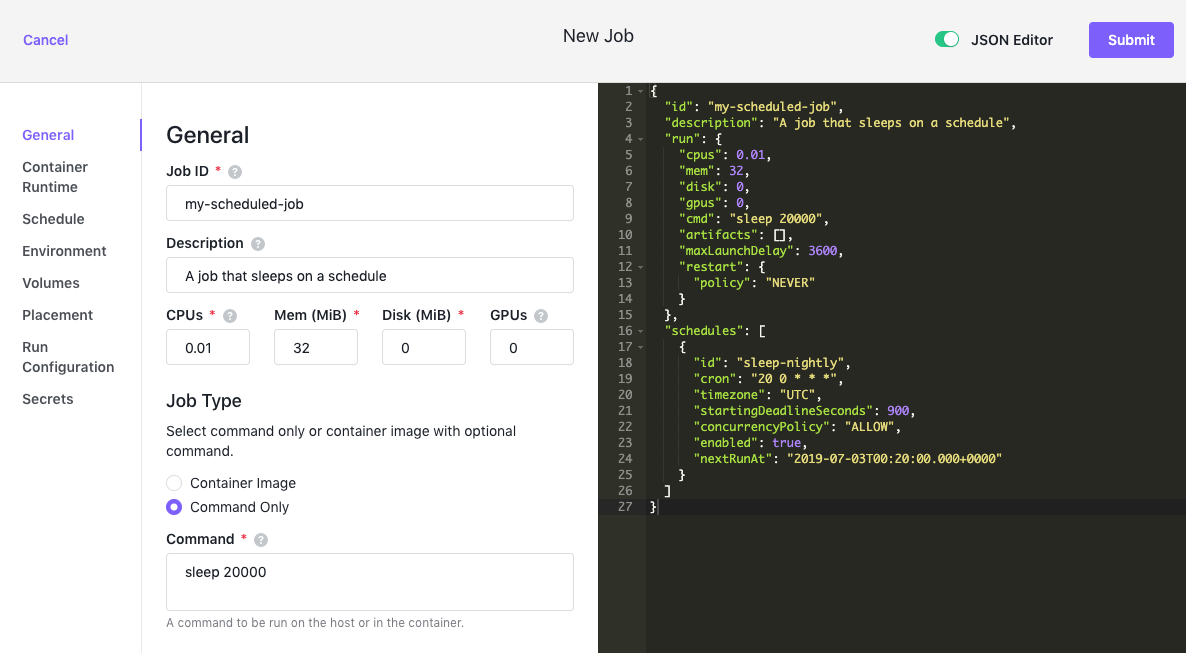
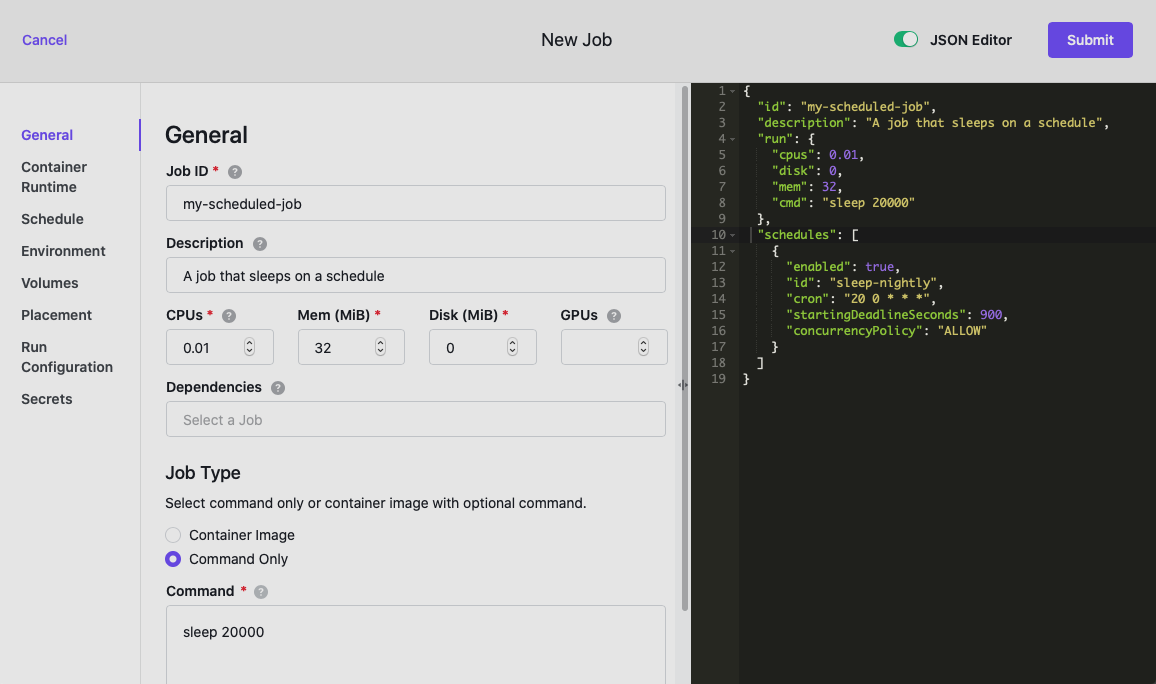
Documentation or jobs-with-dependencies

diff --git a/pages/mesosphere/dcos/2.2/gui/jobs/index.md b/pages/mesosphere/dcos/2.2/gui/jobs/index.md
@@ -95,6 +95,7 @@ Figure 6 - General configuration tab
 | Mem (MiB) | Required field. Specifies the amount of memory, in MiB, your job requires. |
 | Disk (MiB) | Required field. Specifies the amount of disk space, in MiB, your job requires. |
 | GPUs | Specifies the number of GPU (Graphics Processing Unit) shares this job needs per instance. This field is only applicable for jobs that run on nodes configured to use GPU (Graphics Processing Unit) cores and tasks that are launched using DC/OS [Universal Container Runtime](/mesosphere/dcos/2.2/deploying-services/containerizers/ucr/) containers. Support for GPU resources is not available for Docker containers or images.|
+| Dependencies | Specify or more dependencies for a job, indicating that the job should run each time all of the dependencies complete. A schedule may not be specified for jobs with dependencies. |
 | Job Type | Select **Container Image** with an optional **Command** or **Command Only**.|
 | Container Image | Repository name. This field allows you to specify an image you want to run, such as Ubuntu:14.04.|
 | Command* | Specifies a command to be run on the host or in the container. This value is wrapped by Mesos via `/bin/sh - job.cmd`. Either `cmd` or `args` must be supplied . It is invalid to supply both `cmd` and `args` in the same job.|
@@ -153,7 +154,6 @@ Figure 9 - **Jobs > Schedule** tab
 | **CRON Schedule** | Specifies the schedule in `cron` format. This is a required field. Use [this crontab generator](http://crontab.guru) for help. You can also set a **Time Zone** to apply to the cron schedule. For example, you might have nodes in different time zones and want to run the job using a standardized UTC time or a specific local time zone such as America/New_York.|
 | **Starting Deadline** | Sets the time, in seconds, to start the job if it misses its scheduled time for any reason. Missed job executions are counted as failed jobs.|
 | **Concurrency Policy** | A concurrency policy determines whether a new job run instance is triggered if there's already a job instance running. Set if you want to allow new job instances to run if there's already a job instance running. |
-
 
 ## Environment
 

diff --git a/pages/mesosphere/dcos/2.2/deploying-jobs/quickstart/index.md b/pages/mesosphere/dcos/2.2/deploying-jobs/quickstart/index.md
@@ -72,6 +72,7 @@ You will see eight tabs on the left hand side of the screen. These help you name
 | [General](#general) | Sets the most basic job settings, such as the job identifier, CPU, memory and disk requirements.|
 | [Container Runtime](#container-runtime) | Specifies whether the job runs using the Universal Container Runtime or the Docker Engine. |
 | [Schedule](#schedule) | Sets up a schedule for your job. You can use the `cron` format. |
+| [Dependencies](#dependencies) | Specifies that a job should run after another job. |
 | [Environment](#environment) | Specifies environment variables to be attached to each instance of your job.|
 | [Volumes](#volumes) | Configures a stateful job by setting up a persistent volume.|
 | [Placement](#placement) | Specifies the placement of agent nodes in regions and zones for high availability, or to expand capacity to new regions.|
@@ -164,6 +165,40 @@ Figure 10 - **Jobs > Environment** tab
 
 The parameters for this tab and the values allowed are found in the [Jobs](/mesosphere/dcos/2.2/gui/jobs/#environment/) documentation of the UI.
 
+### Dependencies
+
+Jobs can be configured to run after one or more jobs successfully run. Such a job is referred to as a dependent job. A dependent job cannot have a schedule.
+
+Dependent jobs are scheduled to run if all of their dependencies have successfully completed. To illustrate, lets imagine we have jobs A, B, and Z. A runs hour, and B runs every half hour. Z depends on both A and B. The JSON for Z would look as follows:
+
+    ```json
+    {
+      "id": "z",
+      "description": "Job Z",
+      "dependencies": [{"id": "a"}, {"id": "b"}],
+      "run": {
+        ...
+      }
+    }
+    ```
+
+Z would be scheduled accordingly:
+
+12:00 - A and B are run
+12:15 - B finished
+12:20 - A finished
+12:20 - Z is run
+12:28 - Z is finished
+12:30 - B is run
+12:45 - B is finished
+13:00 - A and B are run
+13:15 - B finished
+13:20 - A finished
+13:20 - Z is run (for the second time)
+
+Cyclic dependencies are checked a job is modified, and are rejected by Metronome's validation logic.
+
+...
 
 ### Volumes
 
